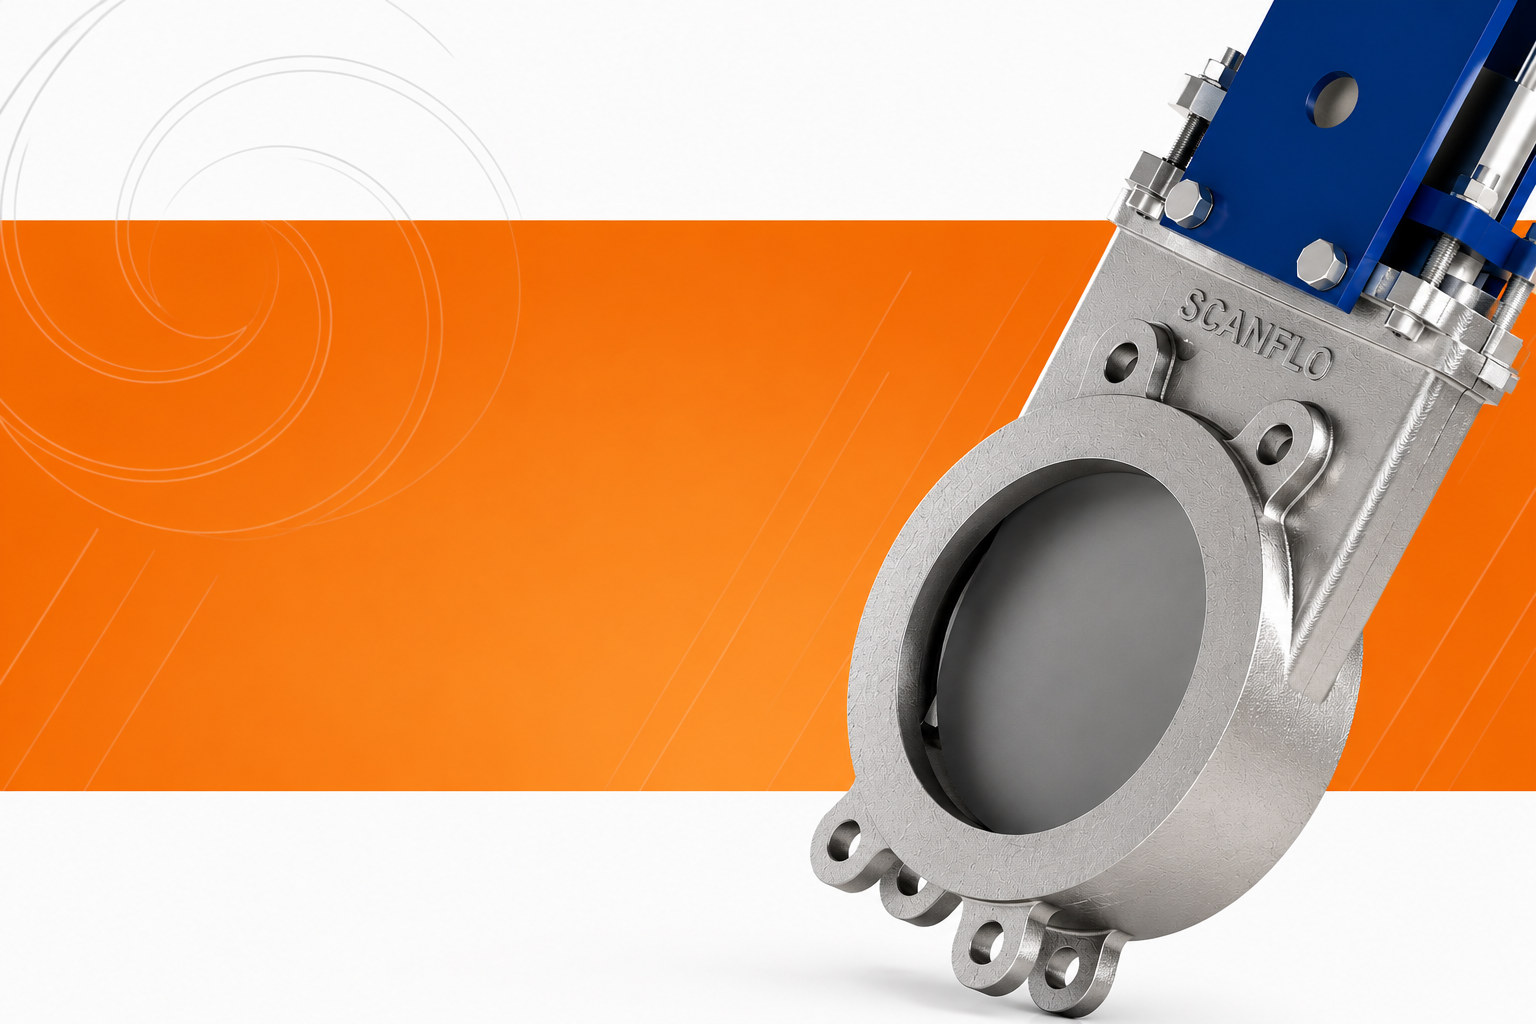
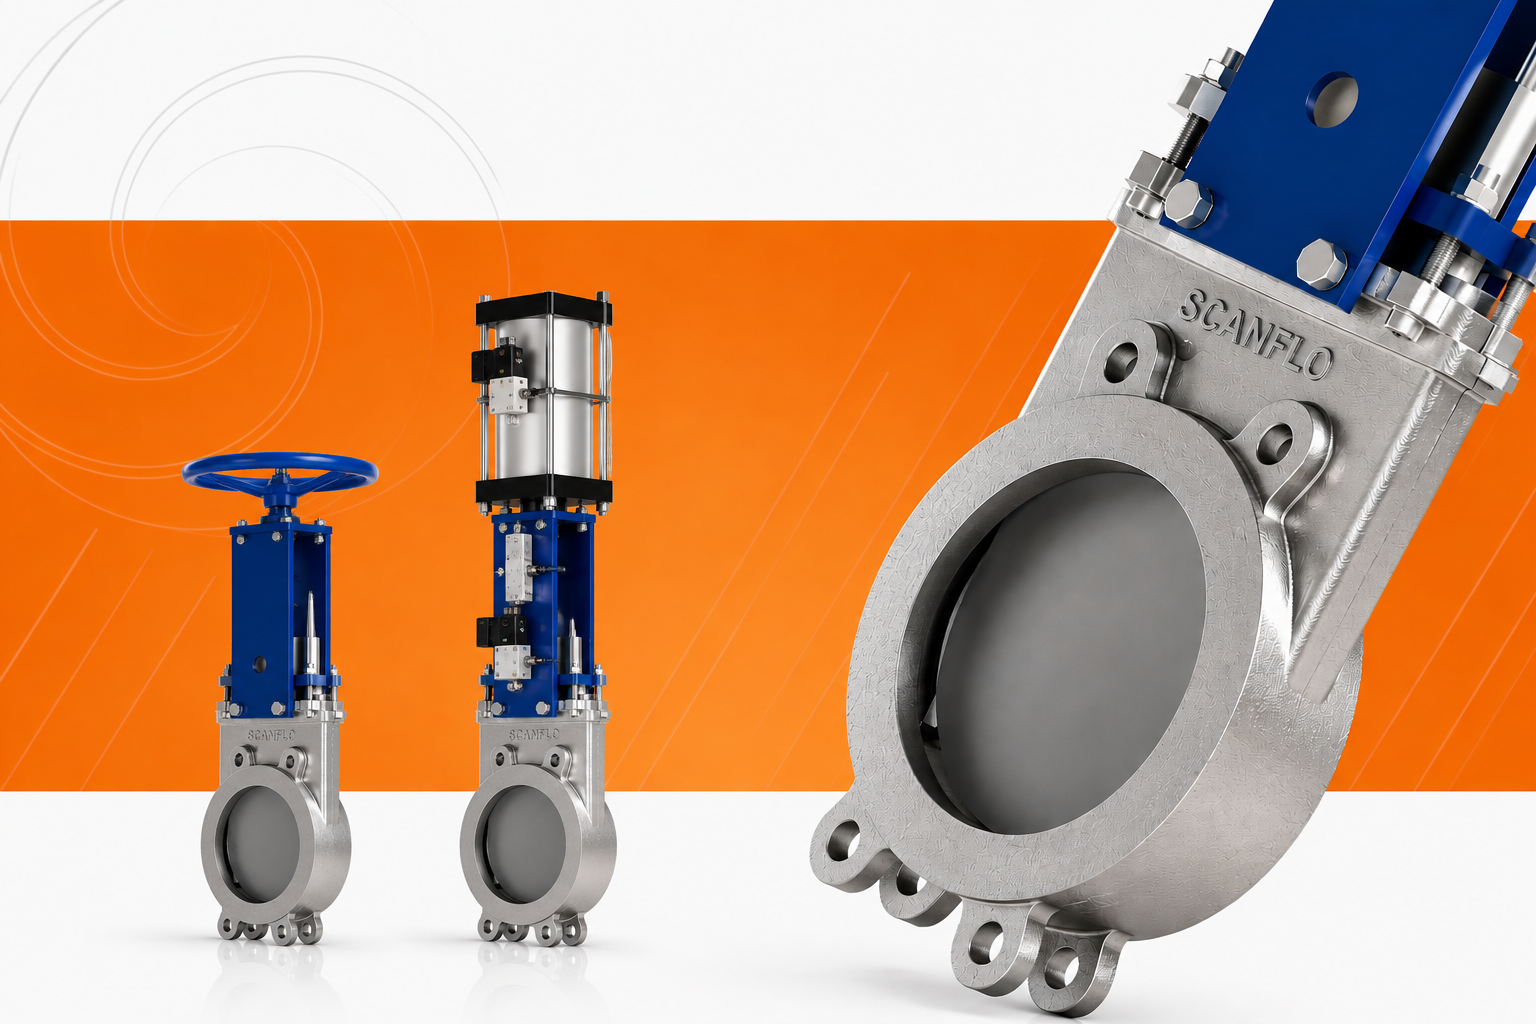
Update the main image on the website carousel
Replace the first carousel image and adjust its display properties in the Hero section.

Replit-Commit-Author: Agent
Replit-Commit-Session-Id: 4950f982-7eb6-4fc0-83a7-b2f836158e2c
Replit-Commit-Checkpoint-Type: full_checkpoint
Replit-Commit-Event-Id: 6602417b-5696-42b8-ab92-dd94a3c73b12
Replit-Commit-Screenshot-Url: https://storage.googleapis.com/screenshot-production-us-central1/c8cd0867-265e-442c-ae48-100187013823/4950f982-7eb6-4fc0-83a7-b2f836158e2c/kx0QEGA
Replit-Helium-Checkpoint-Created: true

diff --git a/artifacts/scanflo-website/src/sections/Hero.tsx b/artifacts/scanflo-website/src/sections/Hero.tsx
@@ -8,7 +8,7 @@ const slides = [
   {
     id: 1,
     image: "/images/hero-slide-1.png",
-    fit: "contain" as const,
+    fit: "cover" as const,
     headline: "Precision Engineered",
     highlight: "Knife Gate Valves",
     subheadline: "Superior Quality • Reliable Performance • Built for Tough Applications",
